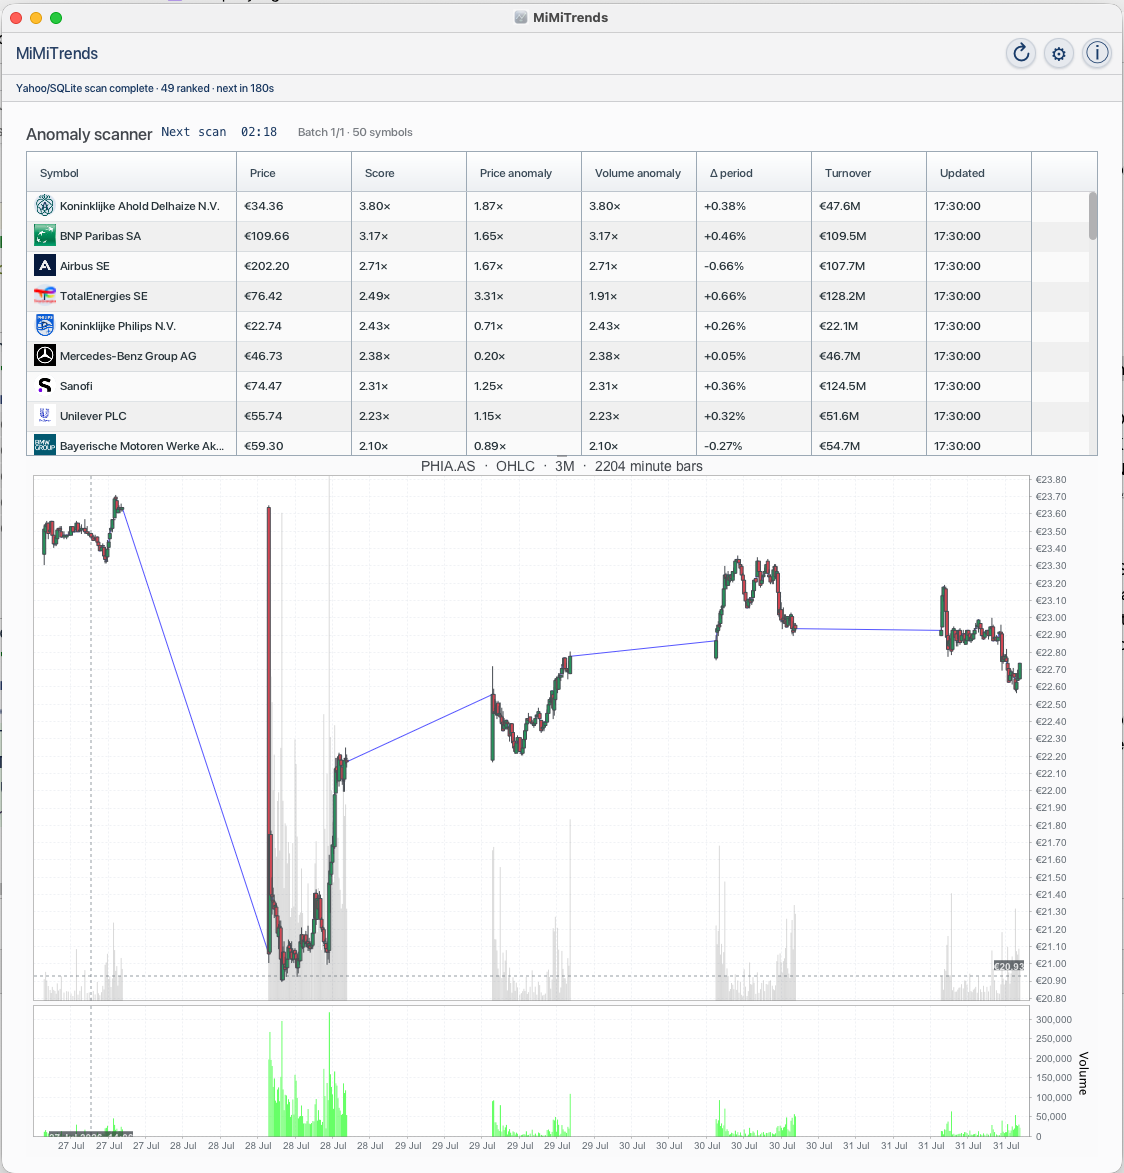
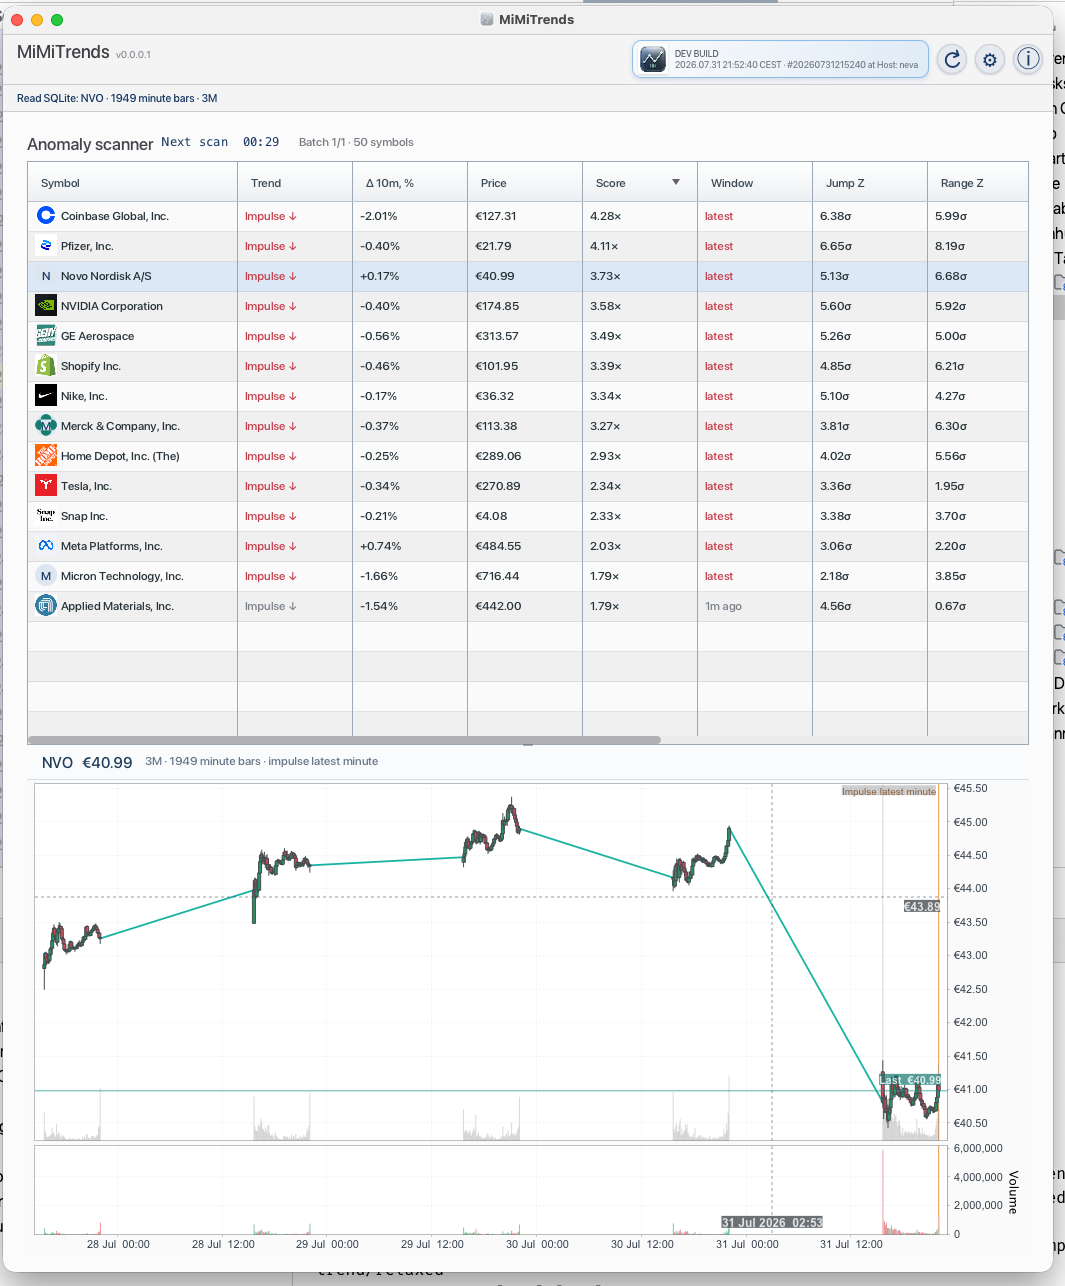
style(header): center build badge and apply glass title treatment

diff --git a/app/src/main/kotlin/org/senatov/mimitrends/MainController.kt b/app/src/main/kotlin/org/senatov/mimitrends/MainController.kt
@@ -89,21 +89,22 @@ class MainController(
         configureIconButton(aboutButton, "About MiMiTrends", rotateOnHover = false)
         aboutButton.setOnAction { showAbout() }
 
-        val titleBar = HBox(
-            8.0,
-            HBox(
+        val titleIdentity = HBox(
                 6.0,
                 Label("MiMiTrends").apply { styleClass += "app-title" },
                 Label("v${BuildInfo.version}").apply { styleClass += "app-version" }
-            ).apply { alignment = Pos.BASELINE_LEFT },
-            spacer(),
-            buildBadge(),
+            ).apply { alignment = Pos.BASELINE_LEFT }
+        val titleActions = HBox(
+            8.0,
             refreshButton,
             settingsButton,
             aboutButton
-        ).apply {
-            alignment = Pos.CENTER_LEFT
+        ).apply { alignment = Pos.CENTER_RIGHT }
+        val titleBar = StackPane(titleIdentity, buildBadge(), titleActions).apply {
             styleClass += "title-toolbar"
+            StackPane.setAlignment(titleIdentity, Pos.CENTER_LEFT)
+            StackPane.setAlignment(children[1], Pos.CENTER)
+            StackPane.setAlignment(titleActions, Pos.CENTER_RIGHT)
         }
 
         contentSplitPane.apply {

diff --git a/app/src/main/resources/org/senatov/mimitrends/MiMiTrends.css b/app/src/main/resources/org/senatov/mimitrends/MiMiTrends.css
@@ -18,13 +18,15 @@
 .app-title {
     -fx-font-size: 18px;
     -fx-font-weight: 300;
-    -fx-text-fill: #3e3f43;
+    -fx-text-fill: linear-gradient(to bottom, #fbfcfd 0%, #686d74 48%, #26292e 100%);
+    -fx-effect: dropshadow(gaussian, rgba(255,255,255,0.94), 1, 0.15, 0, -1);
 }
 
 .app-version {
     -fx-font-size: 10px;
     -fx-font-weight: 300;
-    -fx-text-fill: #8b8e94;
+    -fx-text-fill: linear-gradient(to bottom, #c9cdd2, #747a83);
+    -fx-opacity: 0.82;
 }
 
 .build-badge {
